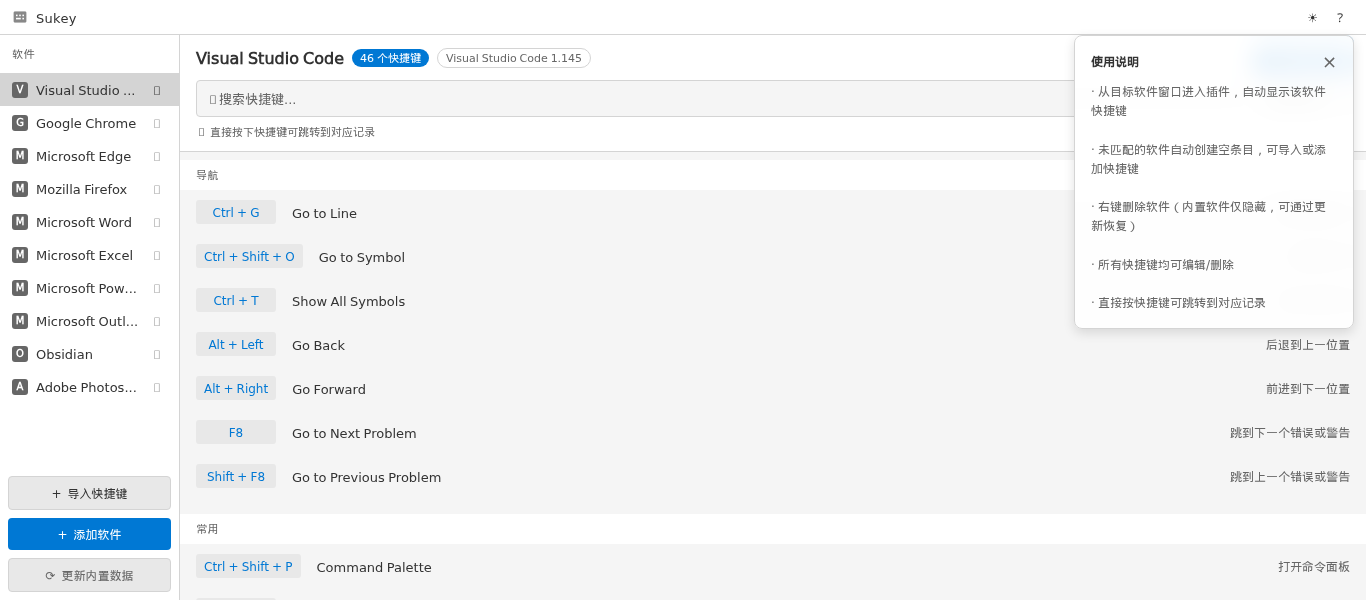
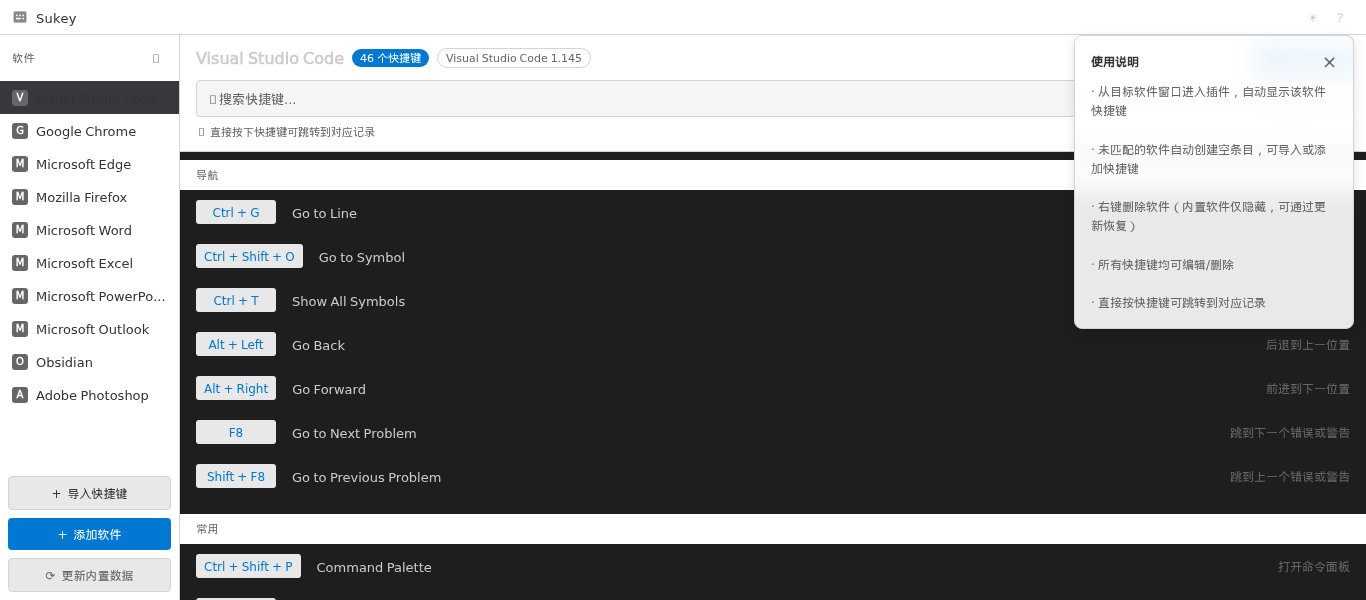
fix: 软件搜索入口改为「软件」标题旁的搜索按钮（按反馈修正）
- 移除每个软件项旁的 🔍 图标
- 侧栏「软件」标题右侧新增 🔍 搜索按钮，点击展开搜索框
- 输入关键词实时过滤软件列表；回车进入首个匹配软件（精确→前缀→包含），
  关闭搜索框、恢复完整列表并选中该软件；Esc 关闭清空
- populateSoftwareList 支持名称过滤并保留当前选中态
- 更新软件搜索 before/after 证据图

diff --git a/index.html b/index.html
@@ -106,6 +106,92 @@
             text-transform: uppercase;
             color: var(--text-secondary);
             letter-spacing: 0.5px;
+            display: flex;
+            align-items: center;
+            gap: 6px;
+        }
+
+        .sidebar-header .sidebar-title {
+            flex: 1;
+        }
+
+        /* 「软件」标题旁的搜索开关按钮 */
+        .sidebar-header .sidebar-search-btn {
+            flex: 0 0 auto;
+            display: flex;
+            align-items: center;
+            justify-content: center;
+            width: 22px;
+            height: 22px;
+            padding: 0;
+            background: transparent;
+            border: 1px solid transparent;
+            border-radius: 4px;
+            color: var(--text-secondary);
+            font-size: 12px;
+            line-height: 1;
+            cursor: pointer;
+            transition: background 0.15s, color 0.15s, border-color 0.15s;
+        }
+
+        .sidebar-header .sidebar-search-btn:hover {
+            background: var(--bg-hover);
+            color: var(--text-primary);
+        }
+
+        .sidebar-header .sidebar-search-btn.active {
+            background: var(--accent);
+            border-color: var(--accent);
+            color: #fff;
+        }
+
+        /* 软件搜索框（点击标题旁搜索按钮后展开） */
+        .sidebar-search {
+            padding: 0 12px 8px;
+        }
+
+        .sidebar-search.hidden {
+            display: none;
+        }
+
+        .sidebar-search-box {
+            display: flex;
+            align-items: center;
+            gap: 6px;
+            background: var(--bg-dark);
+            border: 1px solid var(--border);
+            border-radius: 4px;
+            padding: 0 8px;
+        }
+
+        .sidebar-search-box:focus-within {
+            border-color: var(--accent);
+        }
+
+        .sidebar-search-box .icon {
+            color: var(--text-secondary);
+            font-size: 11px;
+        }
+
+        .sidebar-search-box input {
+            flex: 1;
+            width: 100%;
+            padding: 6px 0;
+            background: transparent;
+            border: none;
+            outline: none;
+            color: var(--text-primary);
+            font-size: 12px;
+        }
+
+        .sidebar-search-box input::placeholder {
+            color: var(--text-secondary);
+        }
+
+        .software-list .software-empty {
+            padding: 12px;
+            font-size: 12px;
+            color: var(--text-secondary);
         }
 
         .software-list {
@@ -150,27 +236,6 @@
             overflow: hidden;
             text-overflow: ellipsis;
             white-space: nowrap;
-        }
-
-        .software-item .software-search {
-            flex: 0 0 auto;
-            font-size: 12px;
-            line-height: 1;
-            padding: 2px 4px;
-            border-radius: 3px;
-            opacity: 0.45;
-            cursor: pointer;
-            transition: opacity 0.15s, background 0.15s;
-        }
-
-        .software-item:hover .software-search,
-        .software-item.active .software-search {
-            opacity: 0.9;
-        }
-
-        .software-item .software-search:hover {
-            opacity: 1;
-            background: var(--bg-active);
         }
 
         /* Content Area */
@@ -743,7 +808,14 @@
     <div class="main-container">
         <div class="sidebar">
             <div class="sidebar-header">
-                软件
+                <span class="sidebar-title">软件</span>
+                <button id="softwareSearchToggle" class="sidebar-search-btn" title="搜索软件并进入" aria-label="搜索软件">🔍</button>
+            </div>
+            <div class="sidebar-search hidden" id="softwareSearch">
+                <div class="sidebar-search-box">
+                    <span class="icon">🔍</span>
+                    <input type="text" id="softwareSearchInput" placeholder="搜索软件，回车进入..." autocomplete="off">
+                </div>
             </div>
             <div class="software-list" id="softwareList">
                 <!-- Populated by JS -->
@@ -1425,37 +1497,61 @@
             }
 
             // ---- 软件列表 ----
-            function populateSoftwareList() {
+            // filterText: 可选的软件名过滤关键词（来自侧栏软件搜索框）
+            function populateSoftwareList(filterText) {
                 const list = document.getElementById('softwareList');
                 if (!list) return;
                 const frag = document.createDocumentFragment();
+                const kw = (filterText && String(filterText).trim()) ? String(filterText).trim().toLowerCase() : '';
+                let shown = 0;
                 Object.keys(Store.getAll()).forEach(key => {
                     const data = Store.get(key);
                     if (!data) return;
+                    const name = data.name || key;
+                    if (kw && !(String(name).toLowerCase().includes(kw) || String(key).toLowerCase().includes(kw))) {
+                        return;
+                    }
+                    shown++;
                     const div = document.createElement('div');
                     div.className = `software-item ${key}`;
                     div.dataset.value = `custom_${key}`;
-                    // 安全: name.charAt(0) 和 name 都走 escape
-                    const safeName = Html.escape(data.name);
-                    const safeInitial = Html.escape((data.name || '?').charAt(0));
-                    div.innerHTML = `<span class="icon">${safeInitial}</span>`
-                        + `<span class="software-name">${safeName}</span>`
-                        + `<span class="software-search" title="搜索该软件快捷键">🔍</span>`;
-                    div.addEventListener('click', () => selectSoftware(`custom_${key}`));
-                    const searchIcon = div.querySelector('.software-search');
-                    if (searchIcon) {
-                        searchIcon.addEventListener('click', (e) => {
-                            e.stopPropagation();
-                            searchInSoftware(`custom_${key}`);
-                        });
+                    if (currentSoftware && `custom_${key}` === currentSoftware) {
+                        div.classList.add('active');
                     }
+                    // 安全: name.charAt(0) 和 name 都走 escape
+                    const safeName = Html.escape(name);
+                    const safeInitial = Html.escape((name || '?').charAt(0));
+                    div.innerHTML = `<span class="icon">${safeInitial}</span>`
+                        + `<span class="software-name">${safeName}</span>`;
+                    div.addEventListener('click', () => selectSoftware(`custom_${key}`));
                     div.addEventListener('contextmenu', (e) => {
                         e.preventDefault();
                         showDeleteDialog(key, data.name);
                     });
                     frag.appendChild(div);
                 });
+                if (kw && shown === 0) {
+                    const empty = document.createElement('div');
+                    empty.className = 'software-empty';
+                    empty.textContent = '没有匹配的软件';
+                    frag.appendChild(empty);
+                }
                 list.replaceChildren(frag);
+            }
+
+            // ---- 软件搜索：返回首个匹配项并进入 ----
+            // 匹配顺序：显示名/键完全一致 -> 以关键词开头 -> 包含关键词
+            function findSoftwareByKeyword(keyword) {
+                const kw = (keyword && String(keyword).trim()) ? String(keyword).trim().toLowerCase() : '';
+                if (!kw) return null;
+                const all = Store.getAll();
+                const keys = Object.keys(all);
+                const exact = keys.find(k => k.toLowerCase() === kw || String((all[k] && all[k].name) || '').toLowerCase() === kw);
+                if (exact) return `custom_${exact}`;
+                const startsWith = keys.find(k => k.toLowerCase().startsWith(kw) || String((all[k] && all[k].name) || '').toLowerCase().startsWith(kw));
+                if (startsWith) return `custom_${startsWith}`;
+                const includes = keys.find(k => k.toLowerCase().includes(kw) || String((all[k] && all[k].name) || '').toLowerCase().includes(kw));
+                return includes ? `custom_${includes}` : null;
             }
 
             // ---- 选择软件 ----
@@ -1508,16 +1604,6 @@
 
                 populateCategorySelect(data.shortcuts);
                 renderShortcuts(data.shortcuts);
-            }
-
-            // ---- 选中软件后聚焦搜索框，便于直接搜索该软件的快捷键 ----
-            function searchInSoftware(software) {
-                selectSoftware(software);
-                const searchInput = document.getElementById('searchInput');
-                if (searchInput) {
-                    searchInput.focus();
-                    searchInput.select();
-                }
             }
 
             // ---- 填充分类选择(用 DocumentFragment,O(n) 而非 O(n²)) ----
@@ -1674,7 +1760,7 @@
             return {
                 populateSoftwareList,
                 selectSoftware,
-                searchInSoftware,
+                findSoftwareByKeyword,
                 populateCategorySelect,
                 filterShortcuts,
                 renderShortcuts,
@@ -2387,6 +2473,51 @@
         function setupEventListeners() {
             // 主题
             document.getElementById('themeToggle').addEventListener('click', () => Theme.toggle());
+
+            // 软件搜索(标题旁按钮展开，过滤列表并回车进入)
+            const softwareSearchToggle = document.getElementById('softwareSearchToggle');
+            const softwareSearch = document.getElementById('softwareSearch');
+            const softwareSearchInput = document.getElementById('softwareSearchInput');
+            function setSoftwareSearchOpen(open) {
+                if (!softwareSearch || !softwareSearchToggle) return;
+                softwareSearch.classList.toggle('hidden', !open);
+                softwareSearchToggle.classList.toggle('active', open);
+                if (open) {
+                    if (softwareSearchInput) {
+                        softwareSearchInput.focus();
+                        softwareSearchInput.select();
+                    }
+                } else if (softwareSearchInput) {
+                    softwareSearchInput.value = '';
+                    UI.populateSoftwareList('');
+                }
+            }
+            if (softwareSearchToggle) {
+                softwareSearchToggle.addEventListener('click', () => {
+                    setSoftwareSearchOpen(softwareSearch.classList.contains('hidden'));
+                });
+            }
+            if (softwareSearchInput) {
+                softwareSearchInput.addEventListener('input', (e) => {
+                    UI.populateSoftwareList(e.target.value);
+                });
+                softwareSearchInput.addEventListener('keydown', (e) => {
+                    if (e.key === 'Enter') {
+                        e.preventDefault();
+                        const target = UI.findSoftwareByKeyword(softwareSearchInput.value);
+                        if (target) {
+                            // 先关闭搜索框并恢复完整列表，再进入目标软件(否则会被随后的列表重建清掉选中态)
+                            setSoftwareSearchOpen(false);
+                            UI.selectSoftware(target);
+                        } else {
+                            Toast.error('没有找到匹配的软件');
+                        }
+                    } else if (e.key === 'Escape') {
+                        e.preventDefault();
+                        setSoftwareSearchOpen(false);
+                    }
+                });
+            }
 
             // 搜索 + 分类(带 debounce)
             const searchInput = document.getElementById('searchInput');

diff --git a/README.md b/README.md
@@ -187,7 +187,7 @@ Sukey 通过 uTools MCP 服务向 AI Agent 暴露以下工具（在 `plugin.json
 ### 2026-11-09
 - 新增 uTools MCP 工具：`list_software`、`get_shortcuts`、`search_shortcuts`、`import_shortcuts`、`export_backup`、`import_backup`，可被 AI Agent 调用完成快捷键导入与数据备份导出
 - 修复「使用说明」弹层在浅色主题下仍显示深色背景的问题（背景改为随主题变化）
-- 软件列表每个软件项新增 🔍 搜索图标，点击即选中该软件并把焦点移到关键词搜索框，直接过滤该软件快捷键
+- 软件过多时，在侧栏「软件」标题旁新增 🔍 搜索按钮：点击展开搜索框，输入关键词过滤软件列表，回车（或点击匹配项）进入对应软件
 
 ### 2026-11-08
 - 扩充内置快捷键：新增 Office（Word/Excel/PowerPoint/Outlook）、Edge、Firefox、Obsidian、Photoshop 等
